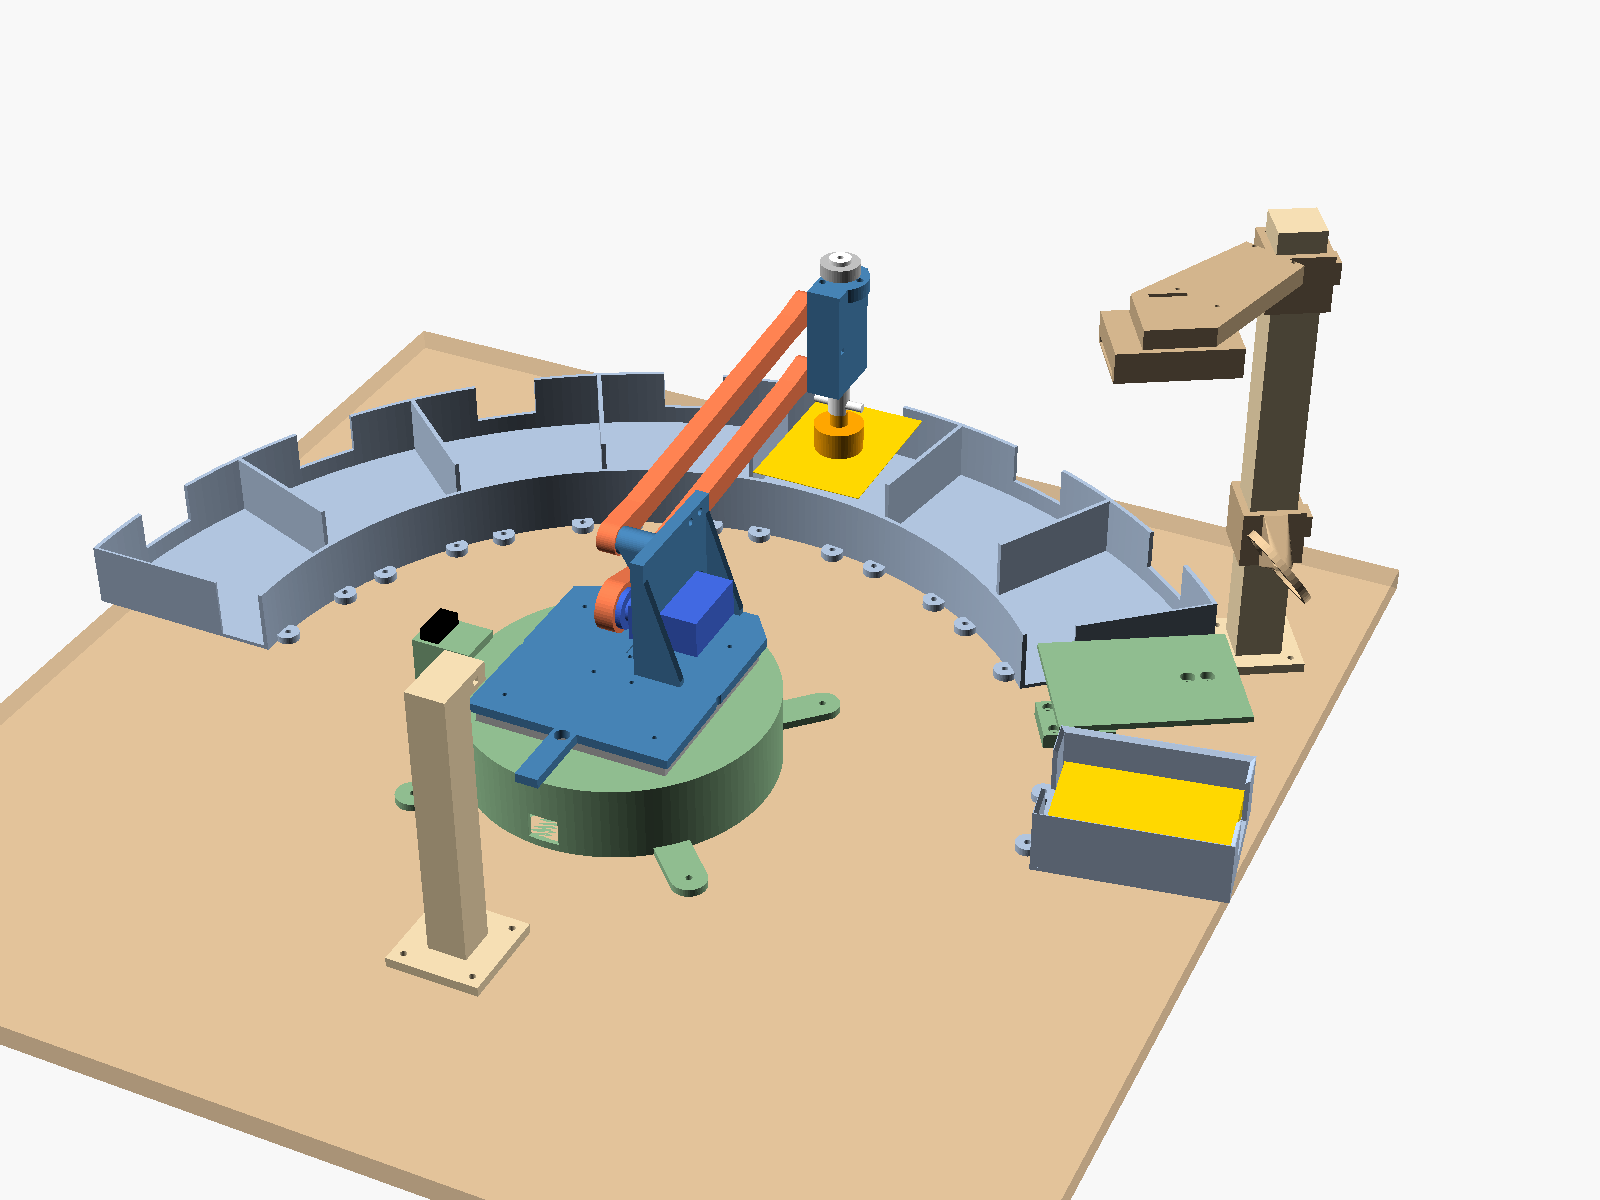
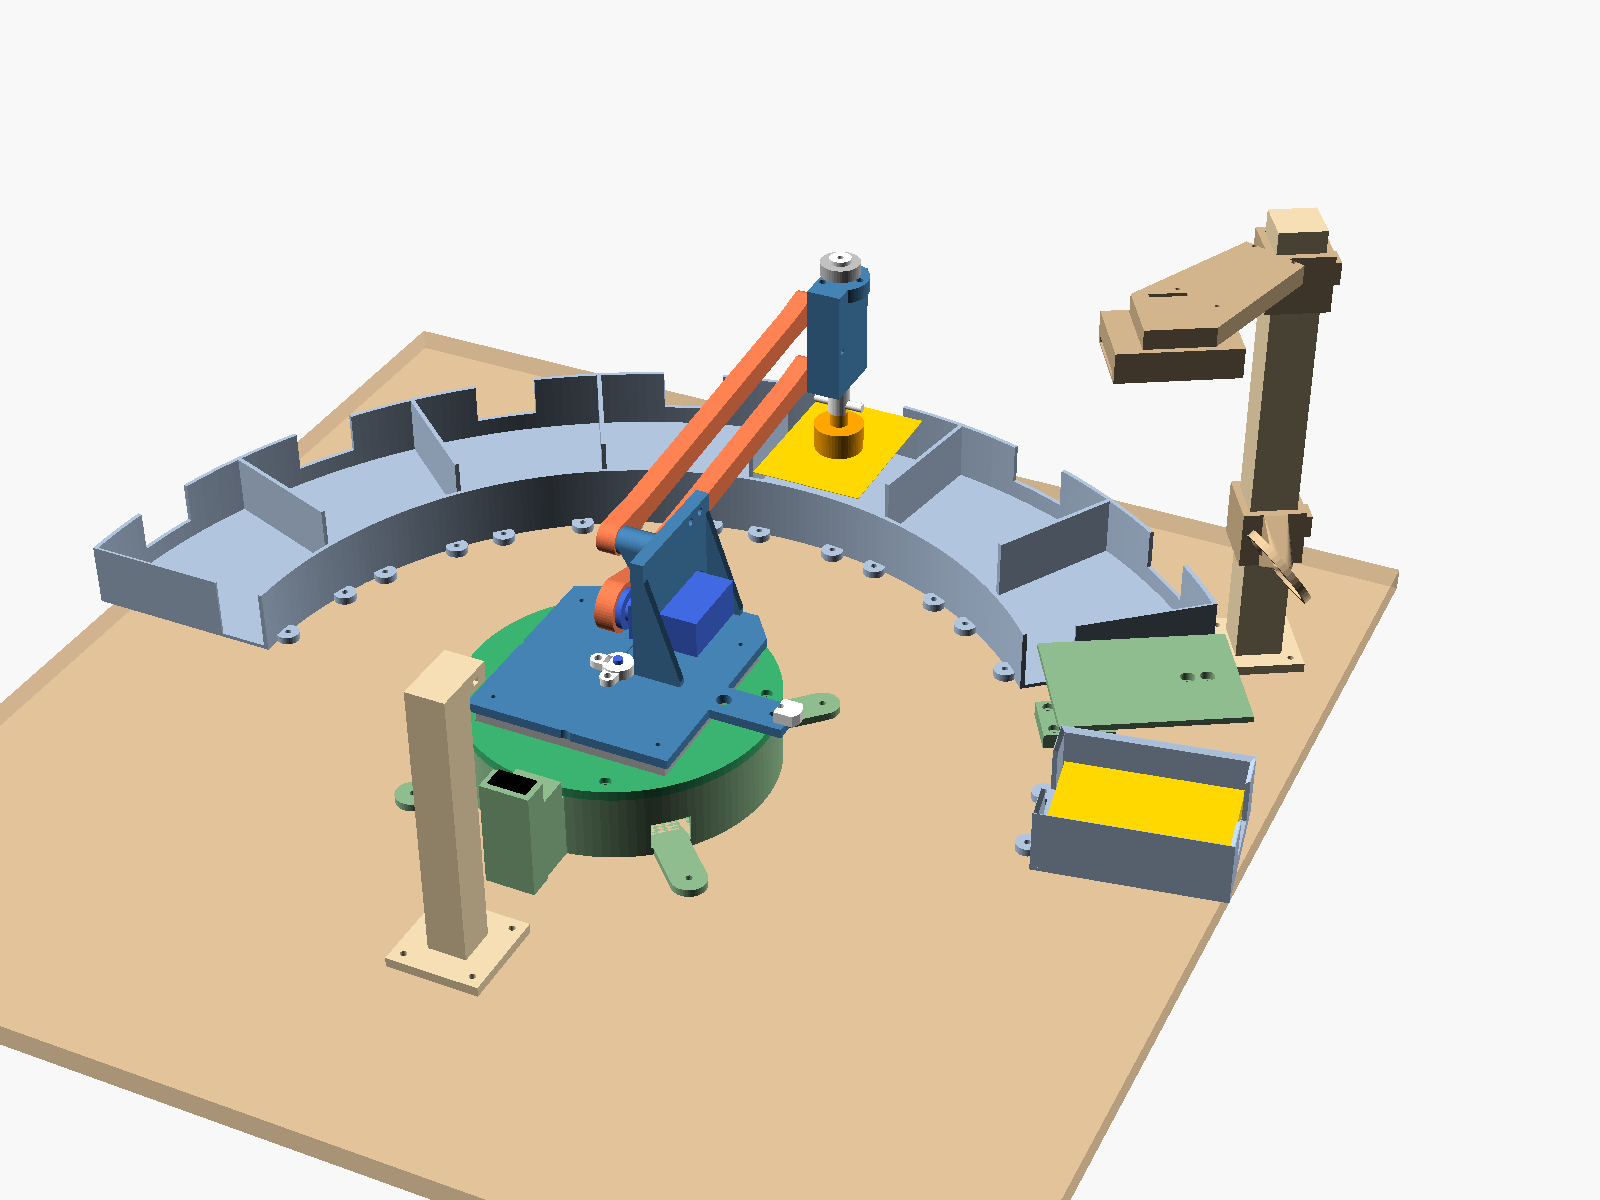
Option B round 5: NEMA 17 pancake + TMC2209 direct-drive yaw (no backlash), split pedestal/deck, top drive collar, separate bearing hole pitches, home switch moved to az 270 (links hit it at 180)

Changed region(s): [[0.2812, 0.5242, 0.5, 0.74], [0.25, 0.4933, 0.3438, 0.555], [0.375, 0.5242, 0.4062, 0.5858]]

diff --git a/cad_b/b_check.py b/cad_b/b_check.py
@@ -4,8 +4,8 @@
 # ///
 """Option B geometry check: station layout, pocket clearances against a real
 error stack-up, lift range, swing clearance with sag, camera clearance and
-focus, load cell, yaw stage. Numbers mirror cad_b/b_params.scad (round 4: the yaw axis
-is a 28BYJ-48 stepper on a 4" lazy-susan bearing).
+focus, load cell, yaw stage. Numbers mirror cad_b/b_params.scad (round 5: the yaw axis
+is a NEMA 17 pancake stepper, direct drive, on a 4" lazy-susan bearing).
 Exits non-zero if any check fails.
 """
 import math, sys
@@ -29,12 +29,12 @@ RING_STACK = 1.65 + 7 + 2.5 + 3        # button heads + 608 + cap + M3 head
 CAM_DIST = 188.0
 CAM_LENS_Z = BED_TOP + CAM_DIST
 STEP_DEG = 180.0 / 410                 # lift servo: PCA9685 12-bit, 500..2500 us at 50 Hz
-YAW_STEP_DEG = 360.0 / 4076            # 28BYJ-48 half-step through its 63.68:1 gearbox
+YAW_STEP_DEG = 1.8 / 16                # NEMA 17, TMC2209 at 1/16 microsteps, direct drive (no gearbox)
 
 # error budget (yaw), degrees and mm
-YAW_REPEAT_DEG = 0.25                  # stepper, same-direction approach (gearbox backlash taken up in one
-                                       # direction, held by the bearing's drag): coupling + gear compliance.
-                                       # Assumed, not measured; the servo version needed 0.6 and had 0 mm margin.
+YAW_REPEAT_DEG = 0.15                  # same target from the same direction: microstep repeatability + load
+                                       # deflection (10 mN m against ~170 mN m holding: ~0.03 deg) + hub set screw.
+                                       # No gearbox, so no backlash term. Assumed; bench-check with a 260 mm pointer.
 YAW_SETPOINT_DEG = YAW_STEP_DEG / 2
 CUP_ON_CARD_MM = 1.0                   # tangential only: the camera measures the card on the bed and the re-pick yaw is
                                        # corrected to +/- half a yaw step (radial offset can NOT be corrected: no radial axis)
@@ -102,24 +102,31 @@ for D in (4.0, 5.0, 6.0):
     print(f"  +{D:.0f} D close-up lens on a 1.5 m-inf camera focuses at {near*1000:.0f}..{far*1000:.0f} mm")
 check(1 / (5 + 1 / 1.5) * 1000 <= CAM_DIST <= 1 / 5 * 1000, f"lens at {CAM_DIST:.0f} mm sits inside the +5 D focus range (boom slides on the post to focus)")
 
-# yaw stage (round 4)
-DECK_Z0, DECK_TOP, TT_Z0, LS_HOLE = 34.5, 39.5, 46.4, 55.0
-ST_SHAFT_L, ST_FLAT_L, ST_BOSS_H = 10.0, 6.0, 1.5
-HUB_Z0, HUB_FL_D, HUB_FL_T = DECK_Z0 + ST_BOSS_H + 0.5, 32.0, 3.0
-EAR_R = math.hypot(35 / 2, 8)                       # ear screws from the axis
-d_engage = (DECK_Z0 + ST_SHAFT_L) - max(HUB_Z0, DECK_Z0 + ST_SHAFT_L - ST_FLAT_L)
-check(d_engage >= 5, f"hub: double-D engages {d_engage:.1f} mm of the shaft's flats")
-check(DECK_TOP + 3 + 0.5 <= TT_Z0 - HUB_FL_T, f"ear screw heads top {DECK_TOP+3:.1f} under the hub flange {TT_Z0-HUB_FL_T:.1f}")
-check(HUB_FL_D / 2 + 3 <= LS_HOLE / 2 and HUB_FL_D / 2 < EAR_R - 2.75, f"hub flange r {HUB_FL_D/2:.0f}: inside the bearing hole r {LS_HOLE/2:.1f}, clear of the ear heads r {EAR_R-2.75:.1f}")
+# yaw stage (round 5)
+DECK_Z0, DECK_TOP, TT_Z0, TT_T, LS_HOLE = 34.5, 39.5, 46.4, 5.0, 55.0
+NM_H, NM_SHAFT_L, NM_FLAT_L, NM_HOLE = 23.0, 24.0, 15.0, 31.0
+COL_SS_Z = TT_Z0 + TT_T - 3 + 3.5
+check(DECK_Z0 - NM_H >= 4, f"motor body bottom Z {DECK_Z0-NM_H:.1f}: inside the pedestal, above the board")
+shaft_top = DECK_Z0 + NM_SHAFT_L
+for sl in (20.0, NM_SHAFT_L):
+    check(DECK_Z0 + sl >= COL_SS_Z + 2.0, f"{sl:.0f} mm shaft (top Z {DECK_Z0+sl:.1f}) reaches past the collar's set screw (Z {COL_SS_Z:.1f})")
+check(shaft_top - NM_FLAT_L <= COL_SS_Z - 2, f"set screw at Z {COL_SS_Z:.1f} lands on the flat (flat from Z {shaft_top-NM_FLAT_L:.1f})")
+r_head_in = NM_HOLE / math.sqrt(2) - 2.75
+check(NM_HOLE / math.sqrt(2) + 2.75 <= LS_HOLE / 2, f"motor screw heads r {r_head_in:.1f}..{NM_HOLE/math.sqrt(2)+2.75:.1f}: inside the bearing hole (r {LS_HOLE/2:.1f})")
 # torque / time: arm inertia about the yaw axis (rough masses, PETG ~40 % infill)
-I = 0.055 * 0.03**2 + 0.05 * 0.22**2 / 3 + 0.06 * 0.245**2 + 0.08 * 0.04**2   # lift servo, links, hand+slider+cup+tube, turntable
-T_avail = 0.5 * 0.034                                # half the 28BYJ-48's ~34 mN m pull-in torque, rest for drag + cable loop
-w_max = 12 * 2 * math.pi / 60                        # 12 rpm: a safe 5 V half-step rate (~800 steps/s)
-alpha = T_avail / I
-t_acc = w_max / alpha
-ang = math.radians(160)
-t_move = 2 * t_acc + (ang - alpha * t_acc**2) / w_max if alpha * t_acc**2 < ang else 2 * math.sqrt(ang / alpha)
-check(t_move <= 3.0, f"yaw: I ~{I*1e4:.0f} kg cm2, accel {math.degrees(alpha):.0f} deg/s2, 160 deg in {t_move:.1f} s at 12 rpm (20 deg hop {2*math.sqrt(math.radians(20)/alpha) if math.radians(20) < alpha*t_acc**2 else 2*t_acc + (math.radians(20)-alpha*t_acc**2)/w_max:.1f} s)")
+I = 0.055 * 0.03**2 + 0.05 * 0.22**2 / 3 + 0.06 * 0.245**2 + 0.12 * 0.045**2   # lift servo, links, hand+slider+cup+tube, turntable
+T_hold = 0.17                                        # 17 N cm holding (pancake, 1 A)
+T_avail = 0.25 * T_hold                              # at 30 rpm on 12 V a pancake keeps well over half; use a quarter
+alpha_cmd = math.radians(300)                        # commanded accel/decel: gentle on the 220 mm links
+w_max = math.radians(120)                            # 120 deg/s (20 rpm)
+T_need = I * alpha_cmd + 0.003 + 0.004               # + bearing drag + cable loop
+check(T_need <= T_avail, f"yaw torque: need {T_need*1000:.0f} mN m (I ~{I*1e4:.0f} kg cm2 at {math.degrees(alpha_cmd):.0f} deg/s2 + drag + cable) vs ~{T_avail*1000:.0f} available")
+def move_t(deg):
+    ang = math.radians(deg); t_acc = w_max / alpha_cmd
+    return 2 * t_acc + (ang - alpha_cmd * t_acc**2) / w_max if alpha_cmd * t_acc**2 < ang else 2 * math.sqrt(ang / alpha_cmd)
+check(move_t(160) <= 2.0, f"yaw: 160 deg in {move_t(160):.1f} s, 20 deg hop {move_t(20):.2f} s")
+stiff_defl = math.degrees(math.asin(0.010 / T_hold)) * (7.2 / 360)   # 10 mN m disturbance, 4 full steps per electrical cycle
+check(stiff_defl <= 0.1, f"yaw stiffness: a 10 mN m disturbance (tilted board, cable) moves the arm {stiff_defl:.3f} deg")
 
 # load cell: owned 5 kg bar (not a 50 g TAL221)
 check(30 + 40 + 2 * 1.75 < 5000, "platform load (slider 30 g + bed 40 g + 2 cards) well inside the 5 kg cell")

diff --git a/cad_b/export_b.py b/cad_b/export_b.py
@@ -19,9 +19,11 @@ PARTS = {
     "hopper":        (1, "PLA",  [0, 0, 0],   "floor down"),
     "cell_block":    (1, "PLA",  [0, 0, 0],   ""),
     "bed":           (1, "PLA",  [180, 0, 0], "top face down"),
-    "pedestal":      (1, "PETG", [0, 0, 0],   "flange down; bridges over the switch-bracket cavity, no supports"),
+    "pedestal":      (1, "PETG", [0, 0, 0],   "tabs down, open tube, no supports"),
+    "deck":          (1, "PETG", [0, 0, 0],   "flat, pocket up"),
     "turntable":     (1, "PETG", [0, 0, 0],   "plate down, no supports"),
-    "hub":           (1, "PETG", [0, 0, 0],   "flange down, 100 % infill"),
+    "collar":        (1, "PETG", [180, 0, 0], "ears down (upside down), 100 % infill, no supports"),
+    "trip":          (1, "PETG", [0, 0, 0],   ""),
     "link_a":        (1, "PETG", [90, 0, 0],  "100 % infill, flat"),
     "link_b":        (1, "PETG", [90, 0, 0],  "100 % infill, flat"),
     "sleeve":        (3, "PETG", [0, 0, 0],   "brim"),

diff --git a/cad_b/BOM_B.md b/cad_b/BOM_B.md
@@ -1,4 +1,4 @@
-# Option B: bill of materials (round 4, 2026-11-14)
+# Option B: bill of materials (round 5, 2026-11-14)
 
 Cap: **$100 of new parts**. Filament is separate (owner's).
 Prices were seen live on 2026-11-13/14. All ship from Amazon; free delivery on a $35+ order (no Prime).
@@ -15,18 +15,18 @@ Prices were seen live on 2026-11-13/14. All ship from Amazon; free delivery on a
 | 6 | 5.5 × 2.1 mm screw-terminal barrel connectors | 12 V adapter → wiring, no cutting | $3.99 | https://www.amazon.com/dp/B09S3S6RYC |
 | 7 | M4 × 10 SHCS (50) | load cell (skip if the HX711 kit came with M4 screws) | $6.99 | https://www.amazon.com/dp/B0GCSJR229 |
 | 7b | Rubycon 1000 µF 16 V capacitors (15) | bulk cap at the PCA9685 servo terminals (review) | $6.99 | https://www.amazon.com/dp/B0F8C2HP5Y |
-| 12 | ELEGOO 28BYJ-48 5 V stepper + ULN2003 driver, 5 sets | yaw axis (round 4): 0.09 deg half-steps through a 64:1 gearbox, replaces the yaw MG996R | $14.99 | https://www.amazon.com/dp/B01CP18J4A |
+| 12 | STEPPERONLINE NEMA 17 pancake stepper, 42 x 42 x 23, 1 A, 17 N cm | yaw axis, direct drive: no gearbox, so no backlash (round 4's 28BYJ-48 had 1-3 deg) | $10.50 | https://www.amazon.com/dp/B0B93PNYCP |
+| 12b | TMC2209 stepper driver module, 2-pack | runs the NEMA 17 off the 12 V adapter; 1/16 microsteps; current set over UART from the Pi (no multimeter needed) | $9.99 | https://www.amazon.com/dp/B0FKG2PZLZ |
 | 13 | 4" square lazy-susan bearing, 2-pack (steel balls, 5/16" thick) | carries the turntable and the arm's tipping moment (the servo's spline used to) | $6.48 | https://www.amazon.com/dp/B09V87HXG5 |
 | 14 | HiLetgo KW12-3 roller-lever microswitch, 10-pack (20 x 10.5 x 6.5) | yaw home switch | $5.99 | https://www.amazon.com/dp/B07X142VGC |
-| 15 | M2 button-head screw + nut kit | 2 x M2 x 12 + nuts hold the switch in its slots | $6.99 | https://www.amazon.com/dp/B0DDY2L533 |
-| | **Core subtotal** | | **$85.05** | |
+| | **Core subtotal** | | **$83.56** | |
 | 8a | Camera focus, cheap: +5.0 reading glasses 5-pack; one lens as a close-up lens over the owned Arducam (fixed focus 1.5 m-inf -> 176..200 mm with +5 D; the boom slides to focus) | the owned camera can't focus at card distance | $9.99 | https://www.amazon.com/dp/B0C64JGSYC |
 | 8b | Camera focus, sure: Raspberry Pi Camera Module 3 (autofocus, 10 cm min) | fallback if 8a is soft | $29.25 Adafruit + ship / $34.98 Amazon | https://www.adafruit.com/product/5657 |
 | 9 | 1/2" × 2' × 2' plywood | base board (skip if there's scrap) | $13.06 Home Depot | https://www.homedepot.com/p/204853869 |
 | 10 | Zip ties 4" (200) | cable/tube dressing (skip if on hand) | $3.99 | https://www.amazon.com/dp/B0BC1VH4XB |
 | 11 | Heat-shrink kit | splices (skip if on hand) | $6.99 | https://www.amazon.com/dp/B072PCQ2LW |
 
-Totals: core + 8a = **$95.04** (round 3 was $60.59; the stepper yaw adds $34.45). 9–11 only if nothing is on hand, and they would push it past $100: use scrap wood, tape or hot glue instead. 8b instead of 8a breaks the cap.
+Totals: core + 8a = **$93.55** (round 3 was $60.59; the yaw stepper, driver, bearing and switch add $32.96). The switch press-fits into its cradle (dab of hot glue), so no M2 screws. 9–11 only if nothing is on hand, and they would push it past $100: use scrap wood, tape or hot glue instead. 8b instead of 8a breaks the cap.
 
 Not bought on purpose: pull-down resistor (the relay is active-high and GPIO 17 defaults to pull-down), vent valve (a pin-hole bleed releases the card), tee-nuts and long bolts (every pivot is an M3 x 16 into an insert through a printed sleeve; servo tabs M3 x 12 + nut; horns M2.5 x 6 from the standoff kit), springs (the cup slider is gravity-loaded).
 

diff --git a/cad_b/README.md b/cad_b/README.md
@@ -47,3 +47,14 @@ Why: the MG996R yaw servo needed ~0.6 deg repeatability and the inner bin zone h
 - Home: a KW12-3 roller-lever switch lies flat on a bracket at az 180 (Z 44), M2 x 12 in radial slots to set the lever against the end of a tab on the turntable (local 180 deg, r 92). HOME = arm at az 0. Wired NC to a GPIO with pull-up.
 - Speed estimate (b_check): ~2.6 s for the full 160 deg, ~0.6 s per 20 deg hop at 12 rpm, vs well under 1 s for the servo.
 - **Check on arrival:** the 28BYJ-48 dims (shaft offset 8, double-D 3.0, shaft 10 above the face) and the lazy susan's hole pattern (assumed 80.8 mm square on both plates). If the holes don't line up with the printed pilots, drill new Ø2.5 pilots through the plate's own holes.
+
+## Round 5 changes (review of round 4, 2026-11-14)
+
+The reviewer found three blockers in round 4. Two were the 28BYJ-48's 1-3 deg gearbox backlash, which bearing drag can't hold to one side, and a pedestal deck that couldn't print. The third was the bearing's two plates probably having different hole patterns. A bias weight or band to take up the backlash didn't hold up either: it needs ~0.1 N held constant, and pulley friction is about the same size.
+
+- Yaw motor is now a **NEMA 17 pancake** (42 x 42 x 23) on a **TMC2209**, direct drive. There's no gearbox and no backlash. 1/16 microsteps = 0.1125 deg. ~170 mN m holding torque, so a 10 mN m disturbance moves the arm 0.07 deg. 160 deg in ~1.7 s, 20 deg hop ~0.5 s. Inner-zone margin is +4.7 mm.
+- `pedestal` is now an open tube (prints with no supports). New flat `deck` part: the motor's Ø22 boss locates in it (centring the shaft on the bearing), the motor screws are 4 x M3 x 8 from above, and 4 x M3 x 10 hold the deck to bosses in the tube.
+- Drive: a `collar` on top of the turntable, sunk 3 mm, with an M3 x 6 set screw onto the shaft's flat through a captive nut. It works with a 20 or a 24 mm shaft. 2 x M3 x 10 go into the turntable through float holes. Everything stays reachable from above. The round-4 hub is gone.
+- Bearing holes: `ls_pitch_bot` (deck, 80.8 assumed) and `ls_pitch_top` (turntable, 88.9 assumed) are separate. **Measure the real bearing before printing the deck and turntable.** Everything else can print now. To reach all 4 bottom-plate screws, park the arm at +45 deg and then at -45 deg.
+- Home switch moved to az 270, behind the axis. At az 180 the links hit it at the reject station (caught by the sweep). It's a KW12-3 press-fit in a walled cradle at Z 51. A separate chamfered `trip` block on a 20 mm tab (local 270) slides in a radial slot (M3 x 12 + nut) to set the click point. During homing the tab arrives from the +X side: fit the switch with its lever hinge on that side.
+- Firmware: approach every station from the same direction anyway (it costs nothing). Re-home at each hopper visit to catch any missed step.
